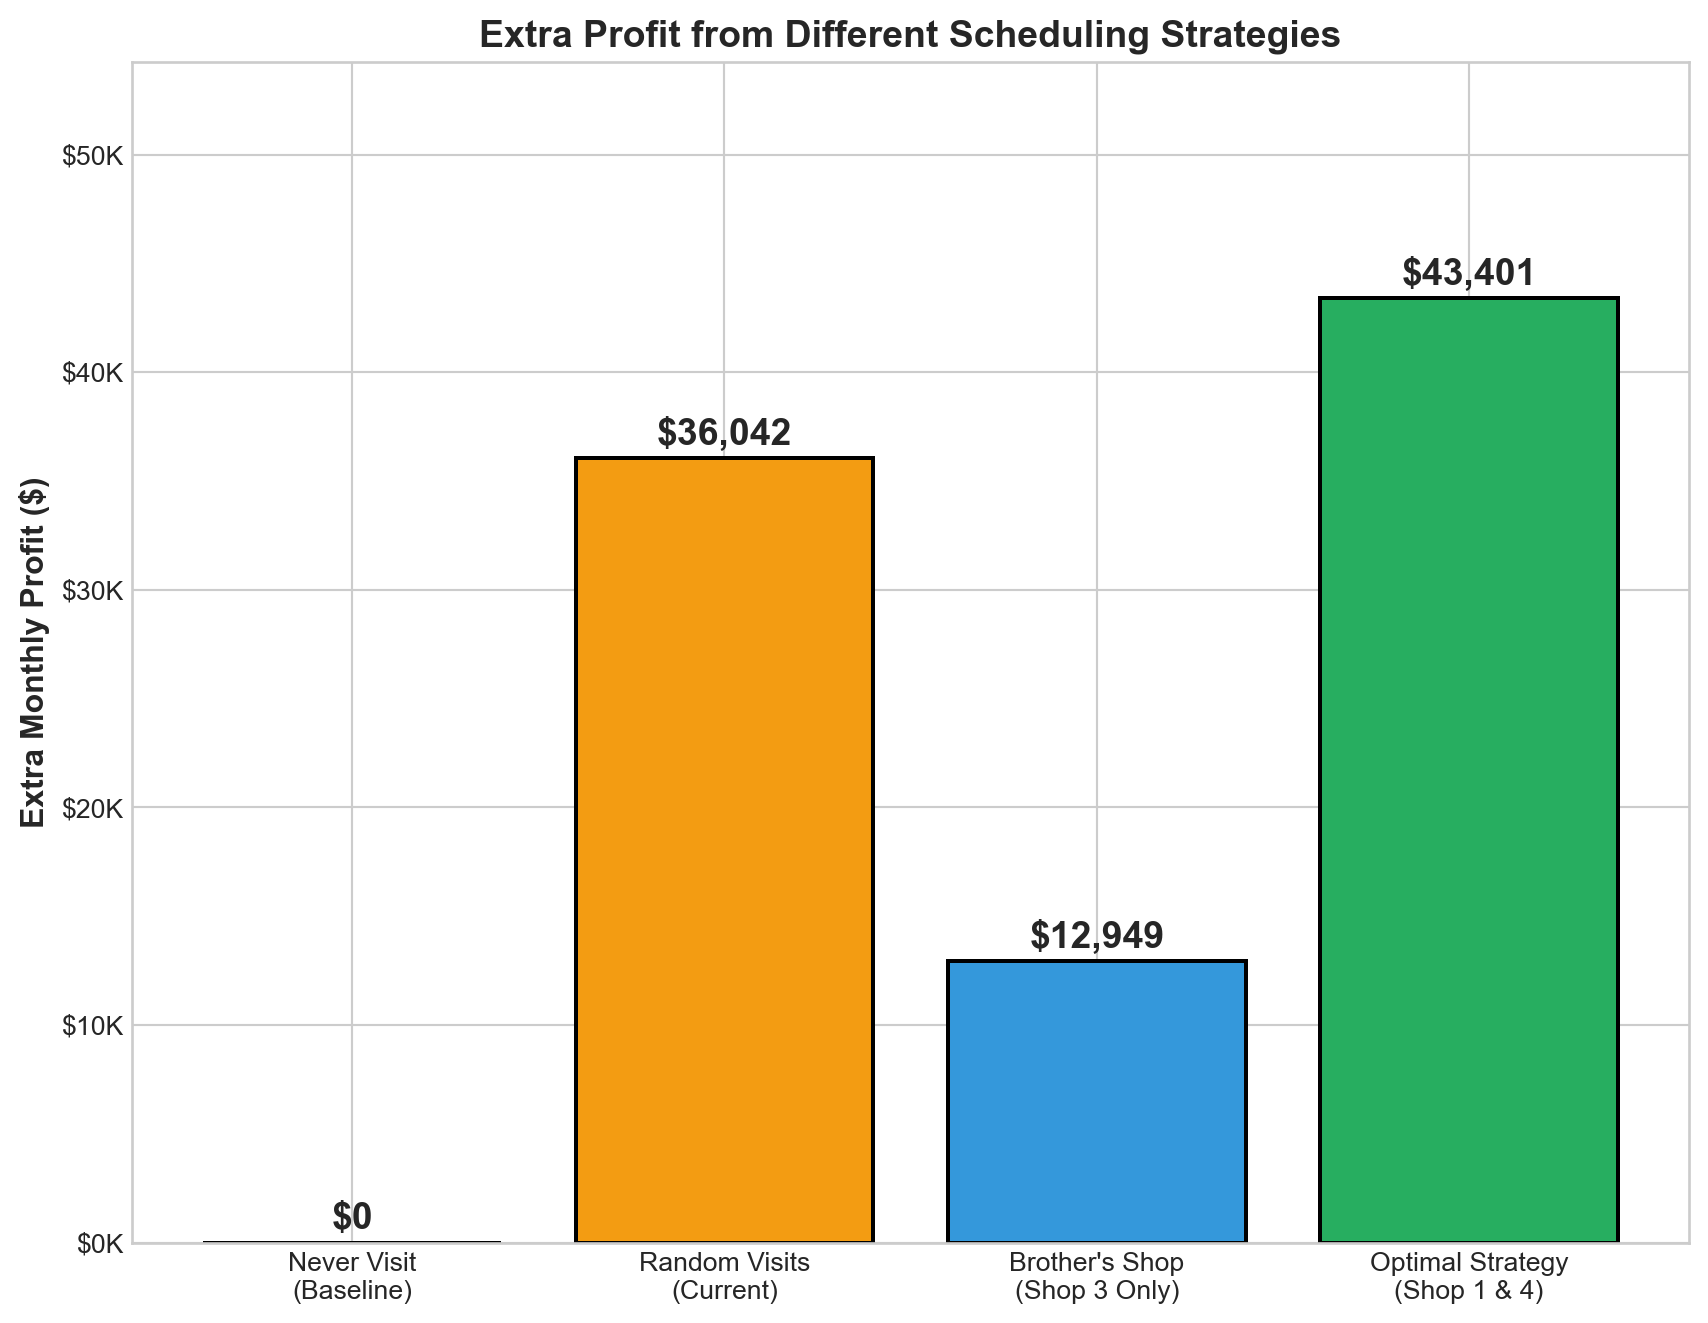
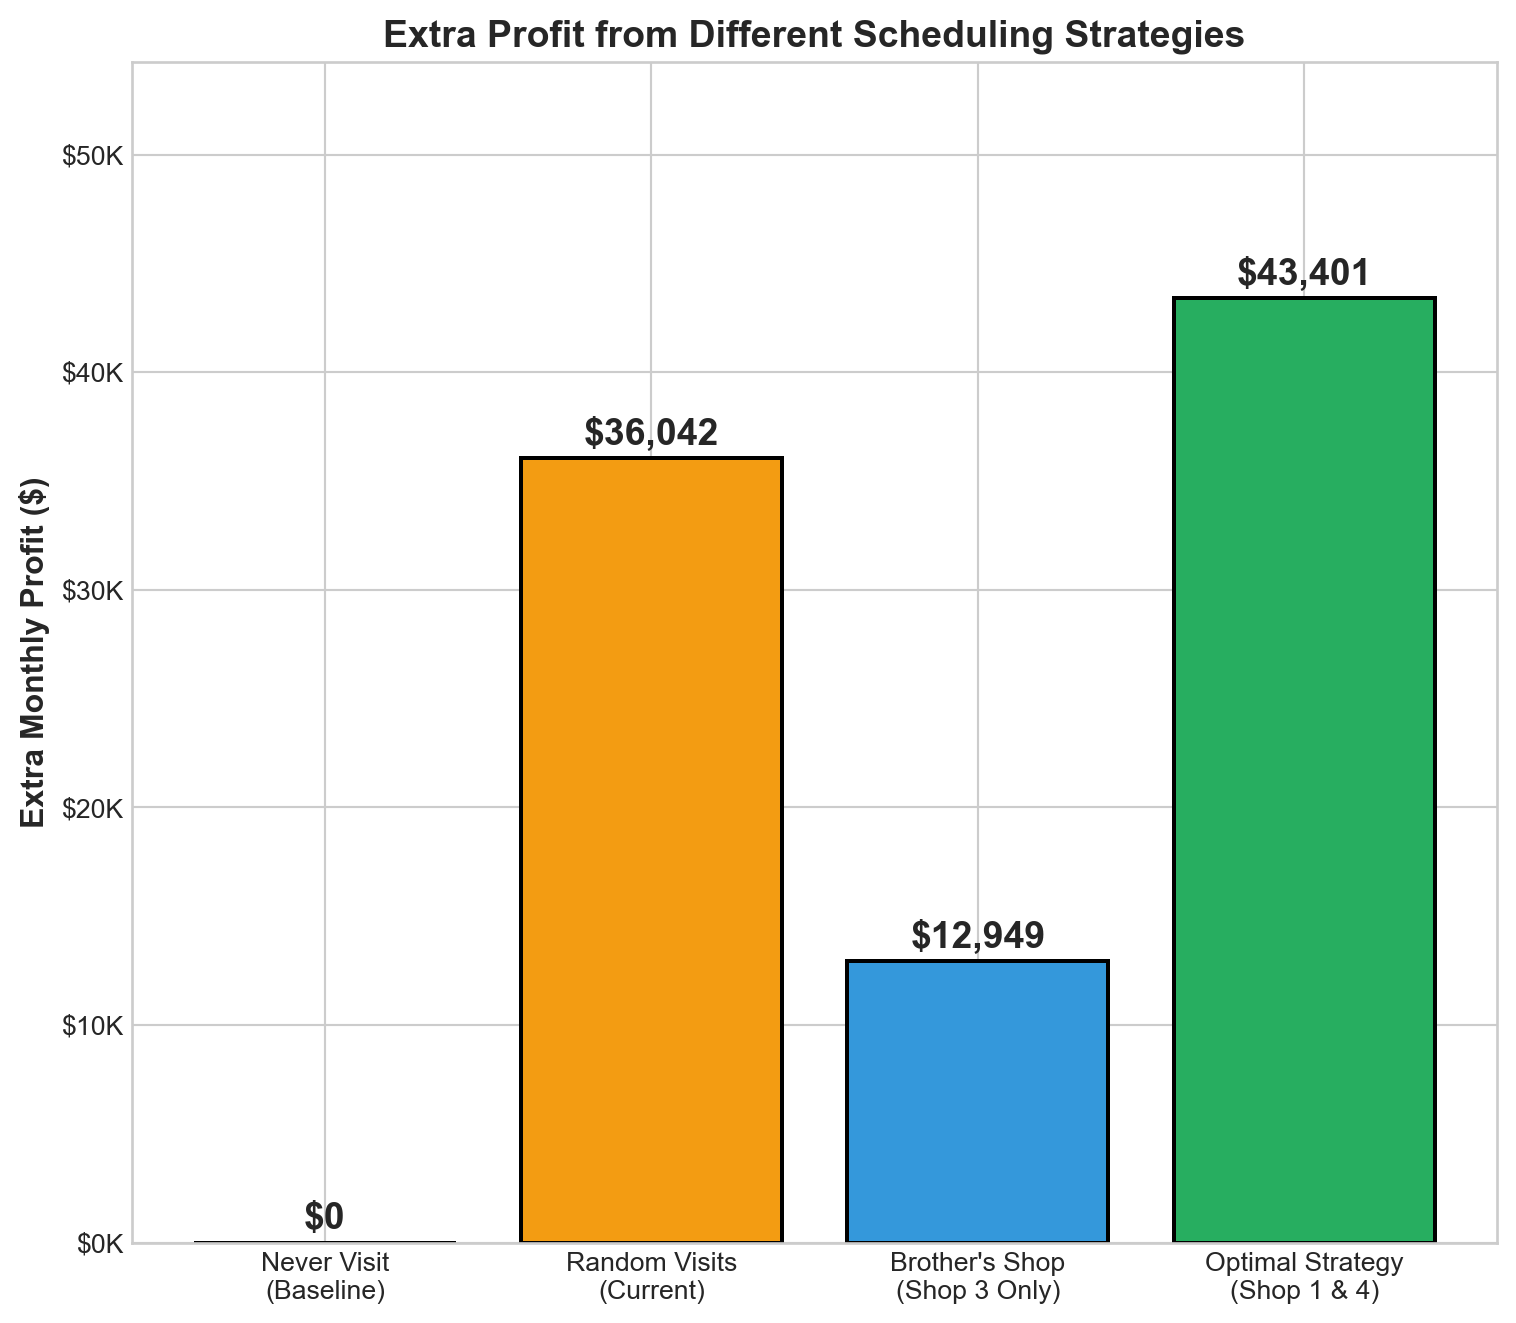
Update project files

diff --git a/index.html b/index.html
@@ -105,11 +105,11 @@ ul.task-list li input[type="checkbox"] {
 <section id="what-the-data-shows" class="level2">
 <h2 class="anchored" data-anchor-id="what-the-data-shows">What the Data Shows</h2>
 <p>We analyzed 250 days of productivity data across your 5 shops. Here’s every single day plotted—you can see the pattern clearly:</p>
-<div id="bd3f1de8" class="cell" data-fig-height="10" data-fig-width="8" data-execution_count="2">
+<div id="94cd9b4c" class="cell" data-fig-height="10" data-fig-width="11" data-execution_count="2">
 <div class="cell-output cell-output-display">
 <div class="quarto-figure quarto-figure-center">
 <figure class="figure">
-<p><img src="index_files/figure-html/cell-3-output-1.png" width="758" height="950" class="figure-img"></p>
+<p><img src="index_files/figure-html/cell-3-output-1.png" width="1046" height="950" class="figure-img"></p>
 <figcaption>Each dot is one day. Green = you were there. Orange = you were away. Delta shows the difference in average cars fixed.</figcaption>
 </figure>
 </div>
@@ -121,7 +121,7 @@ ul.task-list li input[type="checkbox"] {
 <section id="distribution-comparison-violin-plot" class="level2">
 <h2 class="anchored" data-anchor-id="distribution-comparison-violin-plot">Distribution Comparison: Violin Plot</h2>
 <p>This violin plot reveals the full shape of productivity distributions—not just averages, but how spread out and consistent each shop performs:</p>
-<div id="b5ac0b69" class="cell" data-fig-height="6" data-fig-width="8" data-execution_count="3">
+<div id="8a17ed67" class="cell" data-fig-height="6" data-fig-width="8" data-execution_count="3">
 <div class="cell-output cell-output-display">
 <div class="quarto-figure quarto-figure-center">
 <figure class="figure">
@@ -137,7 +137,7 @@ ul.task-list li input[type="checkbox"] {
 <section id="split-violin-plot-direct-comparison-by-shop" class="level2">
 <h2 class="anchored" data-anchor-id="split-violin-plot-direct-comparison-by-shop">Split Violin Plot: Direct Comparison by Shop</h2>
 <p>This split violin plot shows the productivity distribution for each shop with boss presence on opposite sides—making it easy to compare the “shape” of performance directly:</p>
-<div id="70a74d07" class="cell" data-fig-height="8" data-fig-width="8" data-execution_count="4">
+<div id="2e0172f0" class="cell" data-fig-height="8" data-fig-width="8" data-execution_count="4">
 <div class="cell-output cell-output-display">
 <div class="quarto-figure quarto-figure-center">
 <figure class="figure">
@@ -153,7 +153,7 @@ ul.task-list li input[type="checkbox"] {
 <section id="d-view-shop-performance-landscape" class="level2">
 <h2 class="anchored" data-anchor-id="d-view-shop-performance-landscape">3D View: Shop Performance Landscape</h2>
 <p>Here’s an interactive 3D perspective showing all three dimensions at once—Shop ID, your presence status, and cars fixed:</p>
-<div id="e4870402" class="cell" data-fig-height="8" data-fig-width="10" data-execution_count="5">
+<div id="1ab78e9d" class="cell" data-fig-height="8" data-fig-width="10" data-execution_count="5">
 <div class="cell-output cell-output-display">
 <div class="quarto-figure quarto-figure-center">
 <figure class="figure">
@@ -169,7 +169,7 @@ ul.task-list li input[type="checkbox"] {
 <section id="the-boss-boost-effect" class="level2">
 <h2 class="anchored" data-anchor-id="the-boss-boost-effect">The “Boss Boost” Effect</h2>
 <p>Here’s the real question: <strong>How many extra cars get fixed when you’re at each shop?</strong></p>
-<div id="140123b9" class="cell" data-fig-height="5" data-fig-width="7" data-execution_count="6">
+<div id="88bf0b5e" class="cell" data-fig-height="5" data-fig-width="7" data-execution_count="6">
 <div class="cell-output cell-output-display">
 <div class="quarto-figure quarto-figure-center">
 <figure class="figure">
@@ -226,7 +226,7 @@ ul.task-list li input[type="checkbox"] {
 <section id="how-confident-can-you-be" class="level2">
 <h2 class="anchored" data-anchor-id="how-confident-can-you-be">How Confident Can You Be?</h2>
 <p><strong>The honest truth:</strong> We only have 250 days of data, and you weren’t at every shop equally. Here’s what that means:</p>
-<div id="967dd3b4" class="cell" data-fig-height="6" data-fig-width="6" data-execution_count="7">
+<div id="c3dd5af6" class="cell" data-fig-height="6" data-fig-width="6" data-execution_count="7">
 <div class="cell-output cell-output-display">
 <div class="quarto-figure quarto-figure-center">
 <figure class="figure">
@@ -253,11 +253,11 @@ ul.task-list li input[type="checkbox"] {
 <section id="the-money-question" class="level2">
 <h2 class="anchored" data-anchor-id="the-money-question">The Money Question 💰</h2>
 <p>Let’s say each car fixed earns you <strong>$200 in profit</strong>. Here’s what different scheduling strategies could mean for your wallet:</p>
-<div id="48346b88" class="cell" data-fig-height="7" data-fig-width="9" data-execution_count="8">
+<div id="2b7150ff" class="cell" data-fig-height="7" data-fig-width="9" data-execution_count="8">
 <div class="cell-output cell-output-display">
 <div class="quarto-figure quarto-figure-center">
 <figure class="figure">
-<p><img src="index_files/figure-html/cell-9-output-1.png" width="854" height="662" class="figure-img"></p>
+<p><img src="index_files/figure-html/cell-9-output-1.png" width="758" height="662" class="figure-img"></p>
 <figcaption>Extra monthly profit above baseline under different scheduling strategies</figcaption>
 </figure>
 </div>
@@ -266,7 +266,7 @@ ul.task-list li input[type="checkbox"] {
 <section id="long-term-profit-projection" class="level3">
 <h3 class="anchored" data-anchor-id="long-term-profit-projection">Long-Term Profit Projection 📈</h3>
 <p>What do these strategies look like over a full year? Here’s how your profits compound:</p>
-<div id="5fc71ee3" class="cell" data-fig-height="5" data-fig-width="7" data-execution_count="9">
+<div id="bf075ca0" class="cell" data-fig-height="5" data-fig-width="7" data-execution_count="9">
 <div class="cell-output cell-output-display">
 <div class="quarto-figure quarto-figure-center">
 <figure class="figure">
@@ -390,7 +390,7 @@ ul.task-list li input[type="checkbox"] {
 </section>
 <section id="one-final-chart-boss-presence-delta-by-shop" class="level3">
 <h3 class="anchored" data-anchor-id="one-final-chart-boss-presence-delta-by-shop">One Final Chart: Boss Presence Delta by Shop</h3>
-<div id="cb56d3e0" class="cell" data-fig-height="16" data-fig-width="6" data-execution_count="10">
+<div id="c66eced9" class="cell" data-fig-height="16" data-fig-width="6" data-execution_count="10">
 <div class="cell-output cell-output-display">
 <div class="quarto-figure quarto-figure-center">
 <figure class="figure">
